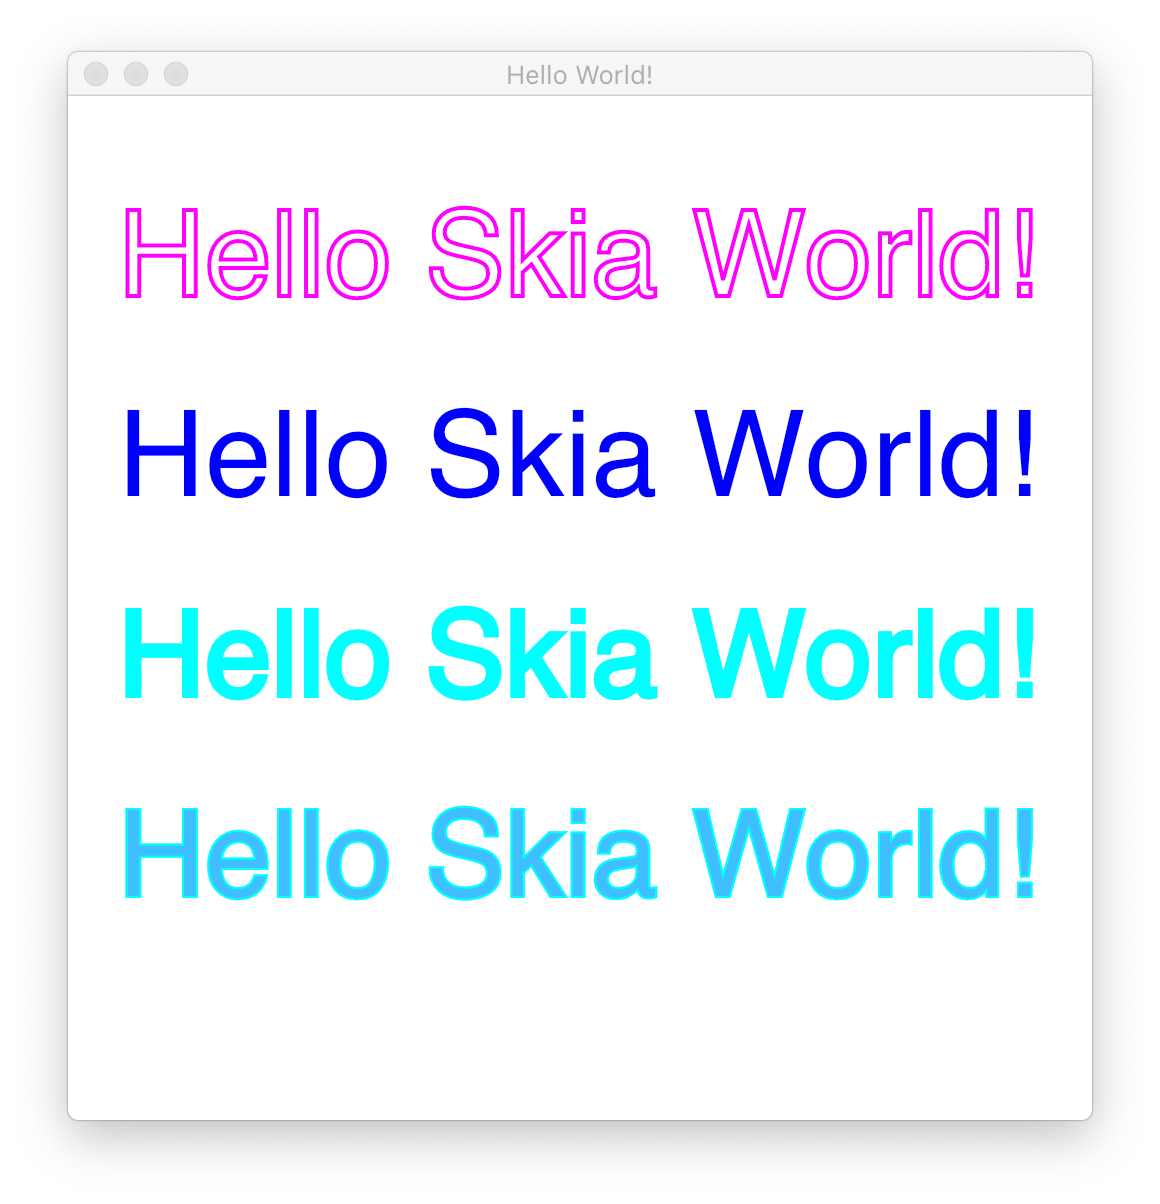
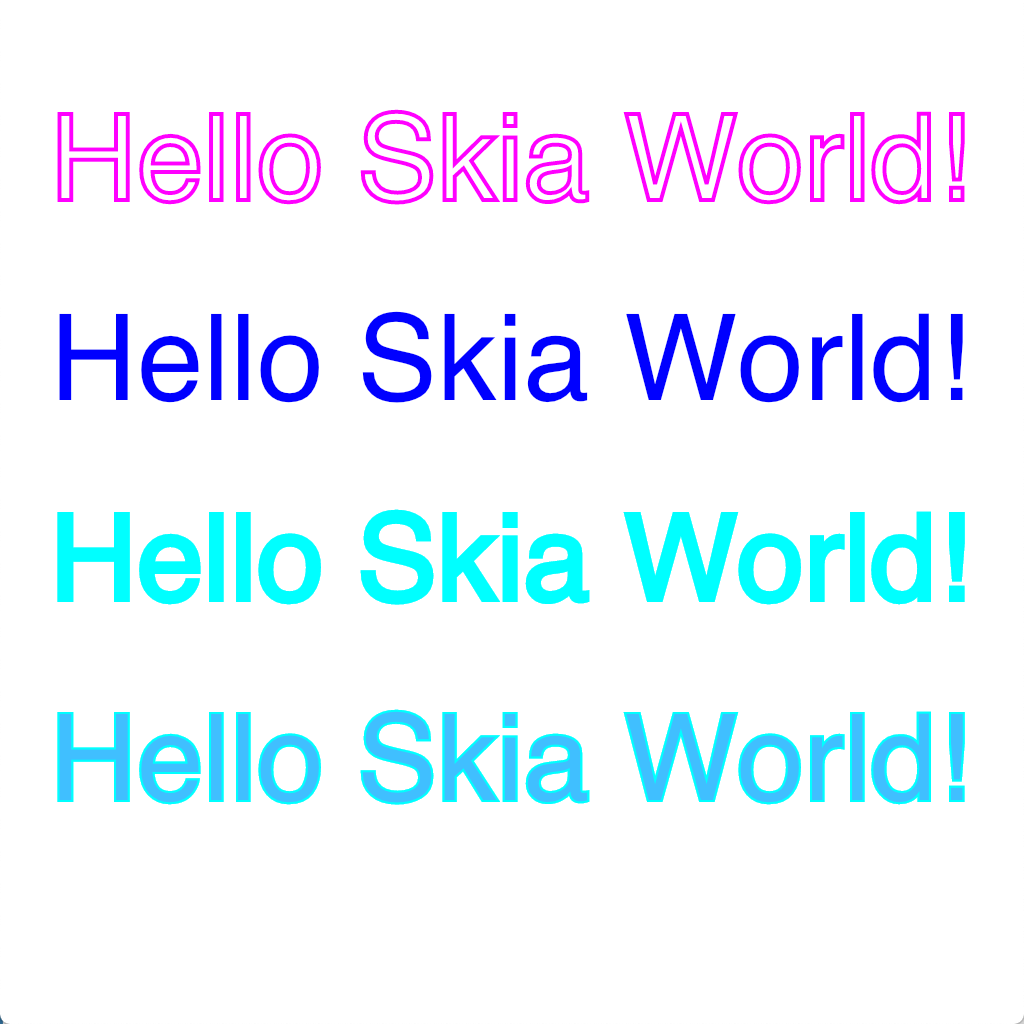
Make all screen sizes equal

Changed region(s): [[0.0312, 0.0312, 0.9688, 0.9688]]

diff --git a/examples/skcanvas_paint/main.c b/examples/skcanvas_paint/main.c
@@ -117,8 +117,8 @@ static sk_surface_t* newSurface(gr_direct_context_t* context, const int w, const
 static const sk_image_t* loadImage(const char* imageFile);
 
 int main(int argc, char** argv) {
-    int width = 256;
-    int height = 256;
+    int width = 512;
+    int height = 512;
 
     if (!glfwInit()) {
         fprintf(stderr, "Failed to initialize GLFW\n");
@@ -151,7 +151,7 @@ int main(int argc, char** argv) {
         sk_surface_t* surface = newSurface(context, canvasWidth, canvasHeight);
         sk_canvas_t* canvas = sk_surface_get_canvas(surface);
 
-        sk_canvas_scale(canvas, contentScaleX, contentScaleY);
+        sk_canvas_scale(canvas, contentScaleX * 2, contentScaleY * 2);
         draw(canvas);
 
         sk_canvas_flush(canvas);
